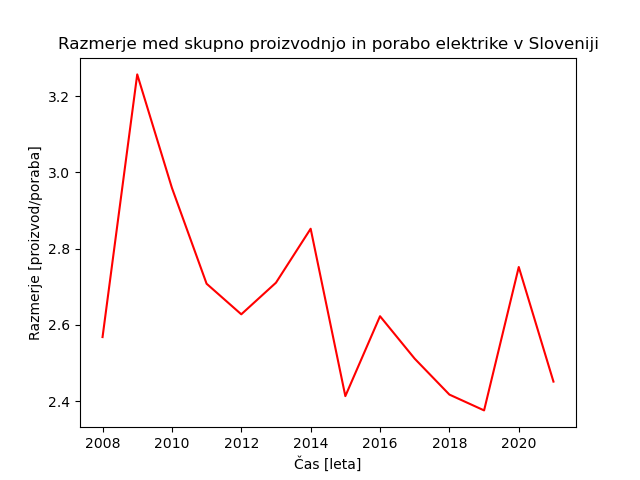
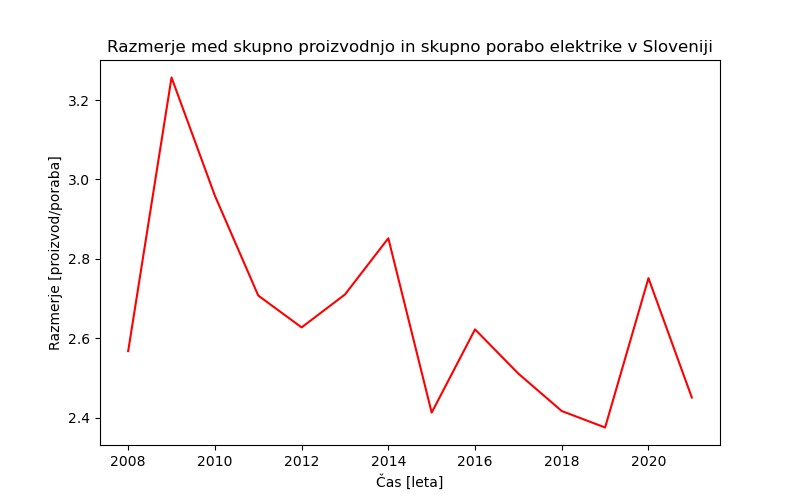
manjši popravki grafov (barve, tekst)

diff --git a/py/razmerje_med_proizvodnjo_in_porabo_elektrike.py b/py/razmerje_med_proizvodnjo_in_porabo_elektrike.py
@@ -12,7 +12,8 @@ with open('../podatki/csv/proizvodnja_elektrike_po_tipu_elektrarne.csv', encodin
     podatkiProizvodov = [row for row in reader]
 
 
-# ---------- PORABA ----------
+# ---------- PREDPROCESIRANJE PODATKOV ----------
+# PORABA
 data = podatkiPorabe[1:]
 
 porabe_skupaj = []
@@ -25,7 +26,7 @@ for row in data:
 porabe_skupaj = porabe_skupaj[0]
 
 
-# ---------- PROIZVODNJA ----------
+# PROIZVODNJA
 # izberi taprave aktualne vrstice
 data = np.array(podatkiProizvodov[2:8])
 data = np.delete(data, 1, axis=0)
@@ -41,7 +42,7 @@ for row in data:
 proizvodi_skupaj = np.sum(proizvodi_po_tipu_elektrarn, axis=0)
 
 
-# ---------- RAZMERJA ----------
+# RAZMERJA
 # če je razmerje večje od 1, potem je viška elektrike, sicer jo je bilo potrebno uvažati
 razmerja_skupno = np.divide(proizvodi_skupaj, porabe_skupaj)
 
@@ -51,24 +52,25 @@ for proizvodi_tipa_elektrarne in proizvodi_po_tipu_elektrarn:
 
 
 # ---------- IZPIS PODATKOV ----------
-
 names = ['Hidroelektrarne', 'Termoelektrarne', 'Jedrska elektrarna', 'Sončne elektrarne', 'Vetrne elektrarne']
-colors = ['red', 'green', 'blue', 'yellow', 'cyan', 'magenta']
+colors = ['red', 'green', 'blue', 'purple', 'orange']
 leta = [leto for leto in range(2008, 2022, 1)]
 
 # prikaz razmerja skupne proizvodnje in skupne porabe
-plt.plot(leta, razmerja_skupno, color=colors[0])
+_, ax = plt.subplots(figsize=(8, 5))
+ax.plot(leta, razmerja_skupno, color=colors[0])
 plt.xlabel('Čas [leta]')
 plt.ylabel('Razmerje [proizvod/poraba]')
-plt.title('Razmerje med skupno proizvodnjo in porabo elektrike v Sloveniji')
+plt.title('Razmerje med skupno proizvodnjo in skupno porabo elektrike v Sloveniji')
 plt.show()
 
 # prikaz razmerja proizvodnje po tipu elektrarne in skupne porabe
-plt.axhline(y=1, color='black', linestyle='--')
+_, ax = plt.subplots(figsize=(8, 5))
+ax.axhline(y=1, color='gray', linestyle='--')
 for i, value in enumerate(razmerja_po_tipu_elektrarn):
-    plt.plot(leta, value, color=colors[i], label='{}'.format(names[i]))
+    ax.plot(leta, value, color=colors[i], label='{}'.format(names[i]))
 plt.xlabel('Čas [leta]')
 plt.ylabel('Razmerje [proizvod/poraba]')
-plt.title('Razmerje med proizvodnjo po tipu elektrarne in porabo elektrike v Sloveniji')
+plt.title('Razmerje med proizvodnjo po tipu elektrarne in skupno porabo elektrike v Sloveniji')
 plt.legend(loc='lower left', bbox_to_anchor=(0, 0.1, 1, 0.1))
 plt.show()

diff --git a/py/proizvodnja_elektrike_po_tipu_elektrarne.py b/py/proizvodnja_elektrike_po_tipu_elektrarne.py
@@ -2,29 +2,34 @@ import matplotlib.pyplot as plt
 import numpy as np
 import csv
 
+# ---------- UVOZ PODATKOV ----------
 with open('../podatki/csv/proizvodnja_elektrike_po_tipu_elektrarne.csv', encoding="cp1250") as f:
     reader = csv.reader(f)
     data = [row for row in reader]
 
-# izberi taprave aktualne vrstice
+# izberi prave aktualne vrstice
 data = np.array(data[2:8])
 data = np.delete(data, 1, axis=0)
 
+
+# ---------- PREDPROCESIRANJE ----------
 values = []
 
 # pretvori v števila
 for row in data:
     values.append([float(n) if n != '-' else 0 for n in row[2:]])
 
+
+# ---------- IZPIS PDOATKOV ----------
 years = [str(year) for year in range(2004, 2022)]
-colors = ['red', 'green', 'blue', 'yellow', 'cyan', 'magenta']
+colors = ['red', 'green', 'blue', 'orange', 'cyan']
 names = ['Hidroelektrarne', 'Termoelektrarne', 'Jedrska elektrarna', 'Sončne elektrarne', 'Vetrne elektrarne']
 
+fig, ax = plt.subplots(figsize=(10, 5))
 for i, value in enumerate(values):
-    plt.plot(years, value, color=colors[i], label='{}'.format(names[i]))
+    ax.plot(years, value, color=colors[i], label='{}'.format(names[i]))
 plt.xlabel('Čas [leta]')
 plt.ylabel('Proizvod [GWh]')
-plt.title('Proizvodnja električne energije')
-plt.legend(loc='lower left')
+plt.title('Proizvodnja električne energije po tipu elektrarne v Sloveniji')
+plt.legend(loc='lower left', bbox_to_anchor=(0, 0.1, 1, 0.1))
 plt.show()
-

diff --git a/py/elektricna_poraba_skupaj.py b/py/elektricna_poraba_skupaj.py
@@ -5,29 +5,40 @@ import matplotlib.image as img
 import numpy as np
 import csv
 
+
+# ---------- UVOZ PODATKOV ----------
 with open('../podatki/csv/poraba_skupaj_brez-transformacij.csv', encoding="cp1252") as f:
     reader = csv.reader(f)
     data = [row for row in reader]
 
 data = data[1:]
 
+
+# ---------- PREDPROCESIRANJE PODATKOV ----------
 values = []
-names = []
 for row in data:
-    names.append(row[0])
     # deli se z 3.6, ker je to faktor pretvorbe iz TJ v GWh
     value = [int(n) / 3.6 if n.isdigit() else 0 for n in row[1:]]
     values.append(value)
 
+povprecje_porabe = np.mean(values)
+values.append([povprecje_porabe for _ in range(len(values[0]))])
+
+# zamenjaj ju, da povprečna črta ne pokriva črte porabe
+values[0], values[1] = values[1], values[0]
+
+
+# ---------- IZPIS PODATKOV ----------
 # od 2008 do 2021
 years = [year for year in range(2008, 2022, 1)]
-colors = ['blue']
+names = ['Povprečna poraba', 'Skupna poraba']
+colors = ['lightgrey', 'darkblue']
 
-fig, ax = plt.subplots(figsize=(8, 5))
 for i, value in enumerate(values):
-    ax.plot(years, value, color=colors[i])
-plt.xlabel('Leto')
+    plt.plot(years, value, color=colors[i], label=f"{names[i]}")
+plt.xlabel('Čas [leto]')
 plt.ylabel('Poraba [GWh]')
 plt.title('Skupna poraba elektrike v Sloveniji')
 plt.subplots_adjust(bottom=0.25)
+plt.legend(loc='lower right')
 plt.show()

diff --git a/py/cena_elektrike_gospodinjskih_odjemalcev_po_doloceni_porabi.py b/py/cena_elektrike_gospodinjskih_odjemalcev_po_doloceni_porabi.py
@@ -16,21 +16,20 @@ for i, quarter in enumerate(quarters):
     else:
         quarters[i] = quarter[:-2]
 
-colors = ['red', 'green', 'blue', 'yellow', 'cyan', 'magenta']
-names = []
+colors = ['red', 'green', 'blue', 'orange', 'magenta']
+names = ['do 1000 KWh', '1000 - 2500 KWh', '2500 - 5000 KWh', '5000 - 15000 KWh', 'nad 15000 KWh']
 values = []
 
 # izberi vrednosti z vsemi davki
 for i, row in enumerate(data):
     if i % 6 == 5:
-        names.append(row[0][4:-1])
         values.append([float(n) if n != '-' else 0 for n in row[2:]])
 
 for i, value in enumerate(values):
     plt.plot(quarters, value, color=colors[i], label='{}'.format(names[i]))
 plt.xlabel('Čas [četrtletje]')
 plt.ylabel('Cena [EUR/kWh]')
-plt.title('Cena električne energije gospodinjskih odjemalcev po določeni porabi')
+plt.title('Cena elektrike gospodinjskih odjemalcev po določeni porabi')
 plt.legend(loc='upper left')
 plt.xticks(rotation=-60)
 plt.show()

diff --git a/py/cena_elektrike_ne-gospodinjske_skupaj.py b/py/cena_elektrike_ne-gospodinjske_skupaj.py
@@ -1,15 +1,20 @@
 import matplotlib.pyplot as plt
 import csv
 
+
+# ---------- UVOZ PODATKOV ----------
 with open('../podatki/csv/cena_elektrike.csv', encoding="cp1252") as f:
     reader = csv.reader(f)
     data = [row for row in reader]
 
+
+# ---------- PREDPROCESIRANJE PODATKOV ----------
 household = data[1]
 non_household = data[7]
 
+
+# ---------- IZPIS PODATKOV ----------
 quarters = [x for x in data[0]][1:]
-colors = ['red', 'green', 'blue', 'yellow', 'cyan', 'magenta']
 
 for i, quarter in enumerate(quarters):
     if i % 4 != 0:

diff --git a/py/elektricna_poraba_po_dejavnosti.py b/py/elektricna_poraba_po_dejavnosti.py
@@ -54,7 +54,7 @@ colors = ['blue', 'red', 'green']
 plt.axhline(y=1, color='grey', linestyle='--')
 for i, value in enumerate(relativne_porabe_po_dejavnosti):
     plt.plot(years, value, color=colors[i], label='{}'.format(names[i]))
-plt.xlabel('Leto')
+plt.xlabel('Čas [leto]')
 plt.ylabel('Relativna sprememba od povprečne porabe')
 plt.title('Električna poraba po dejavnosti v Sloveniji')
 plt.legend(loc='upper left')
